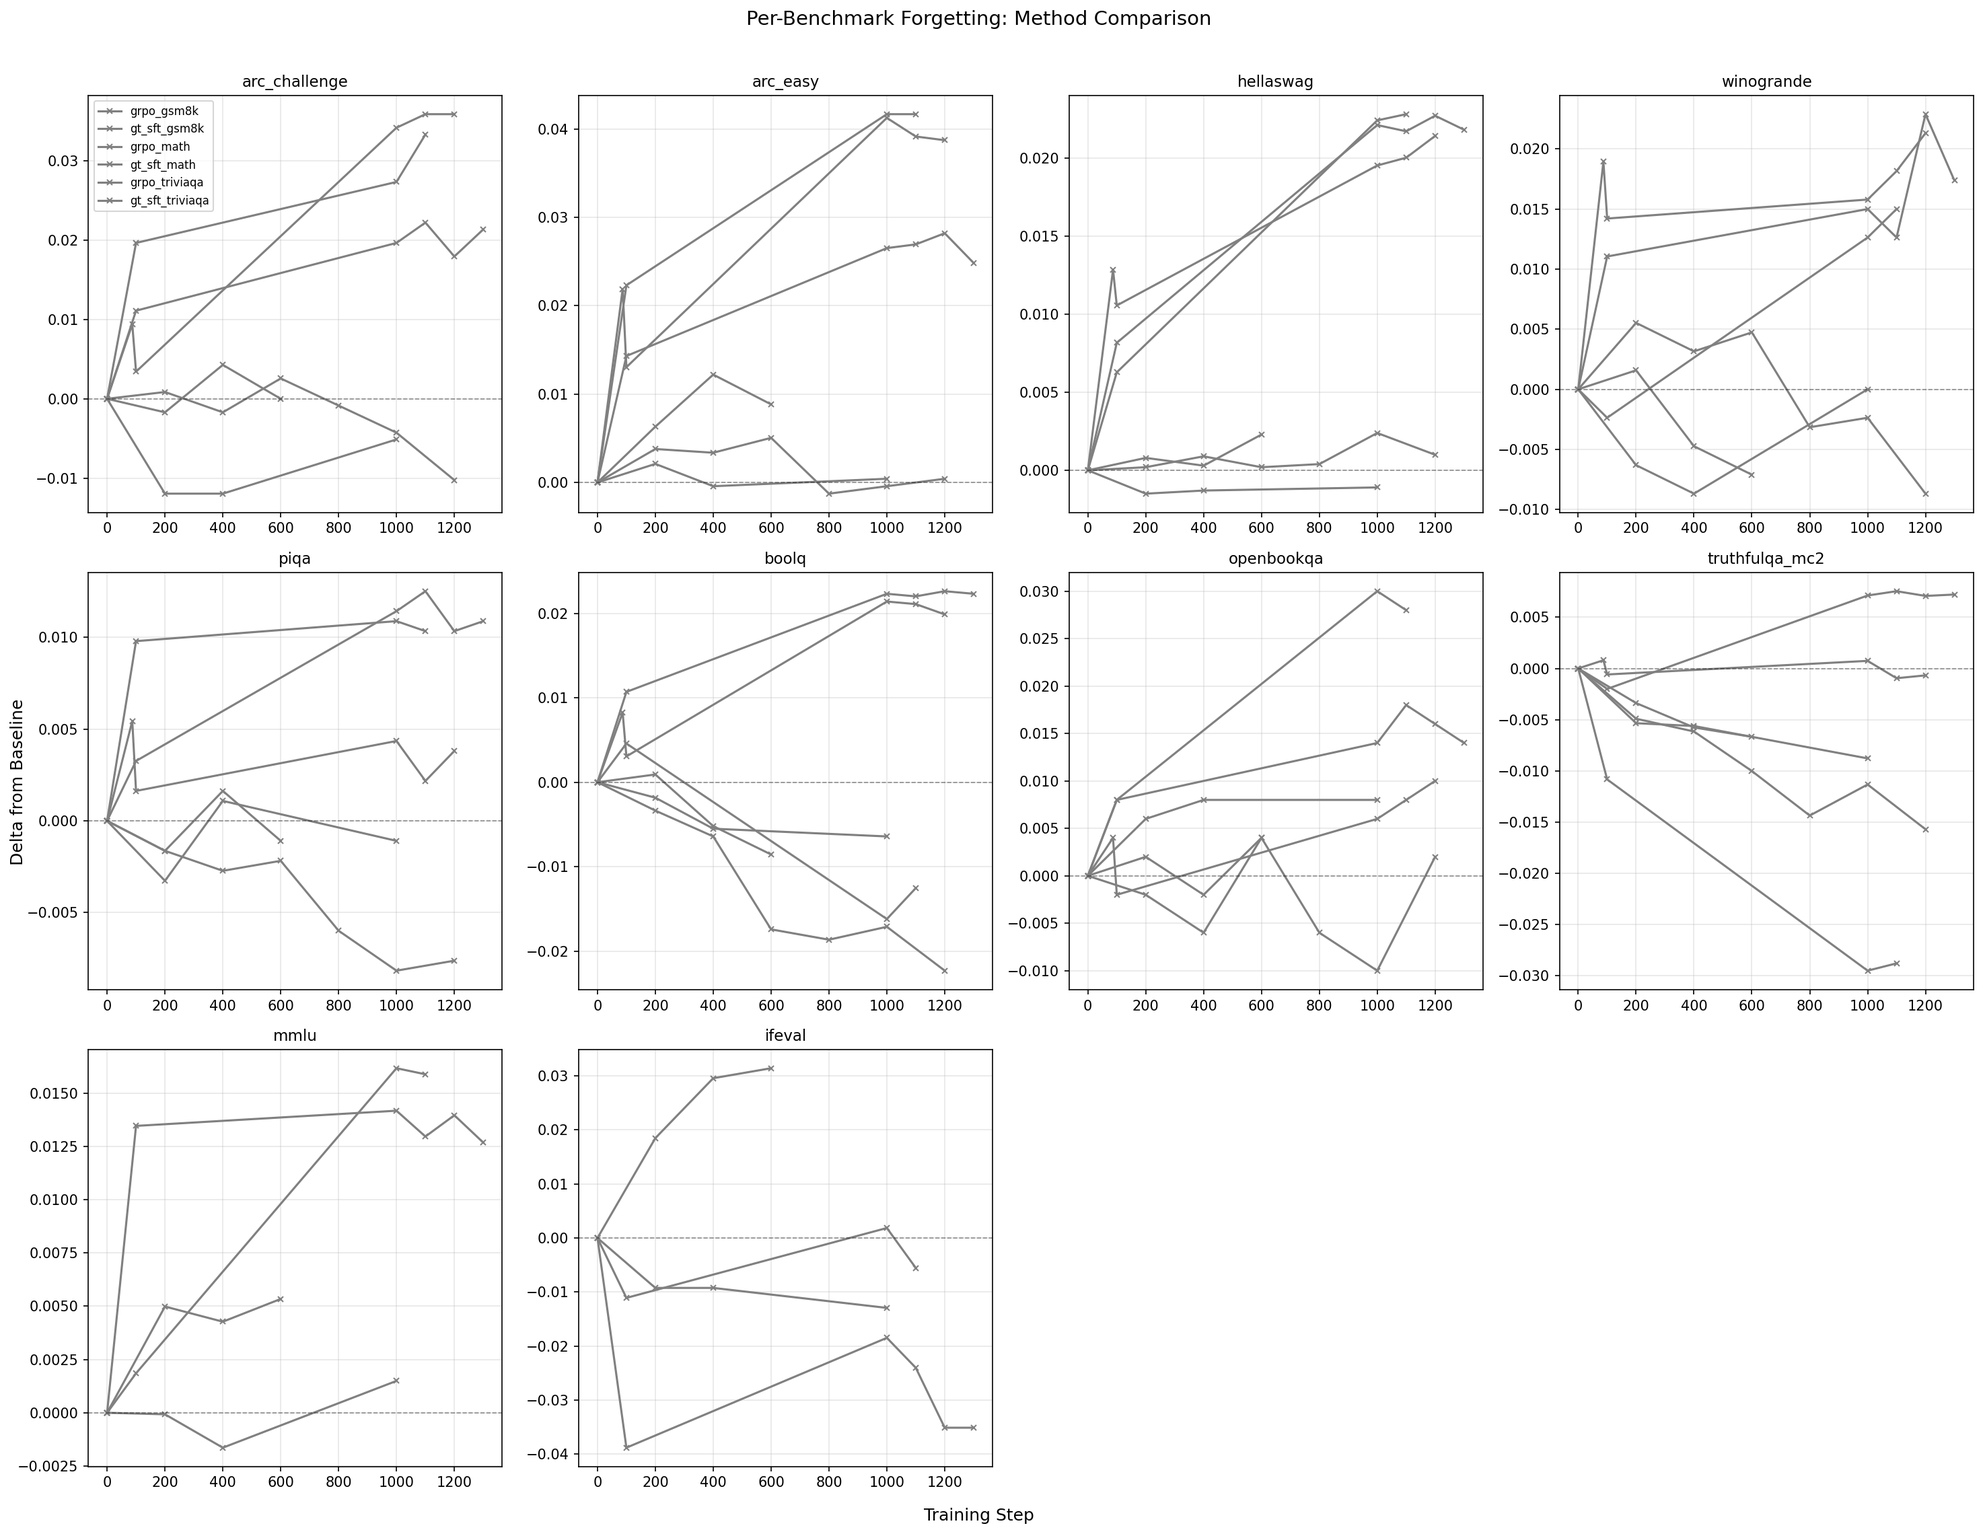
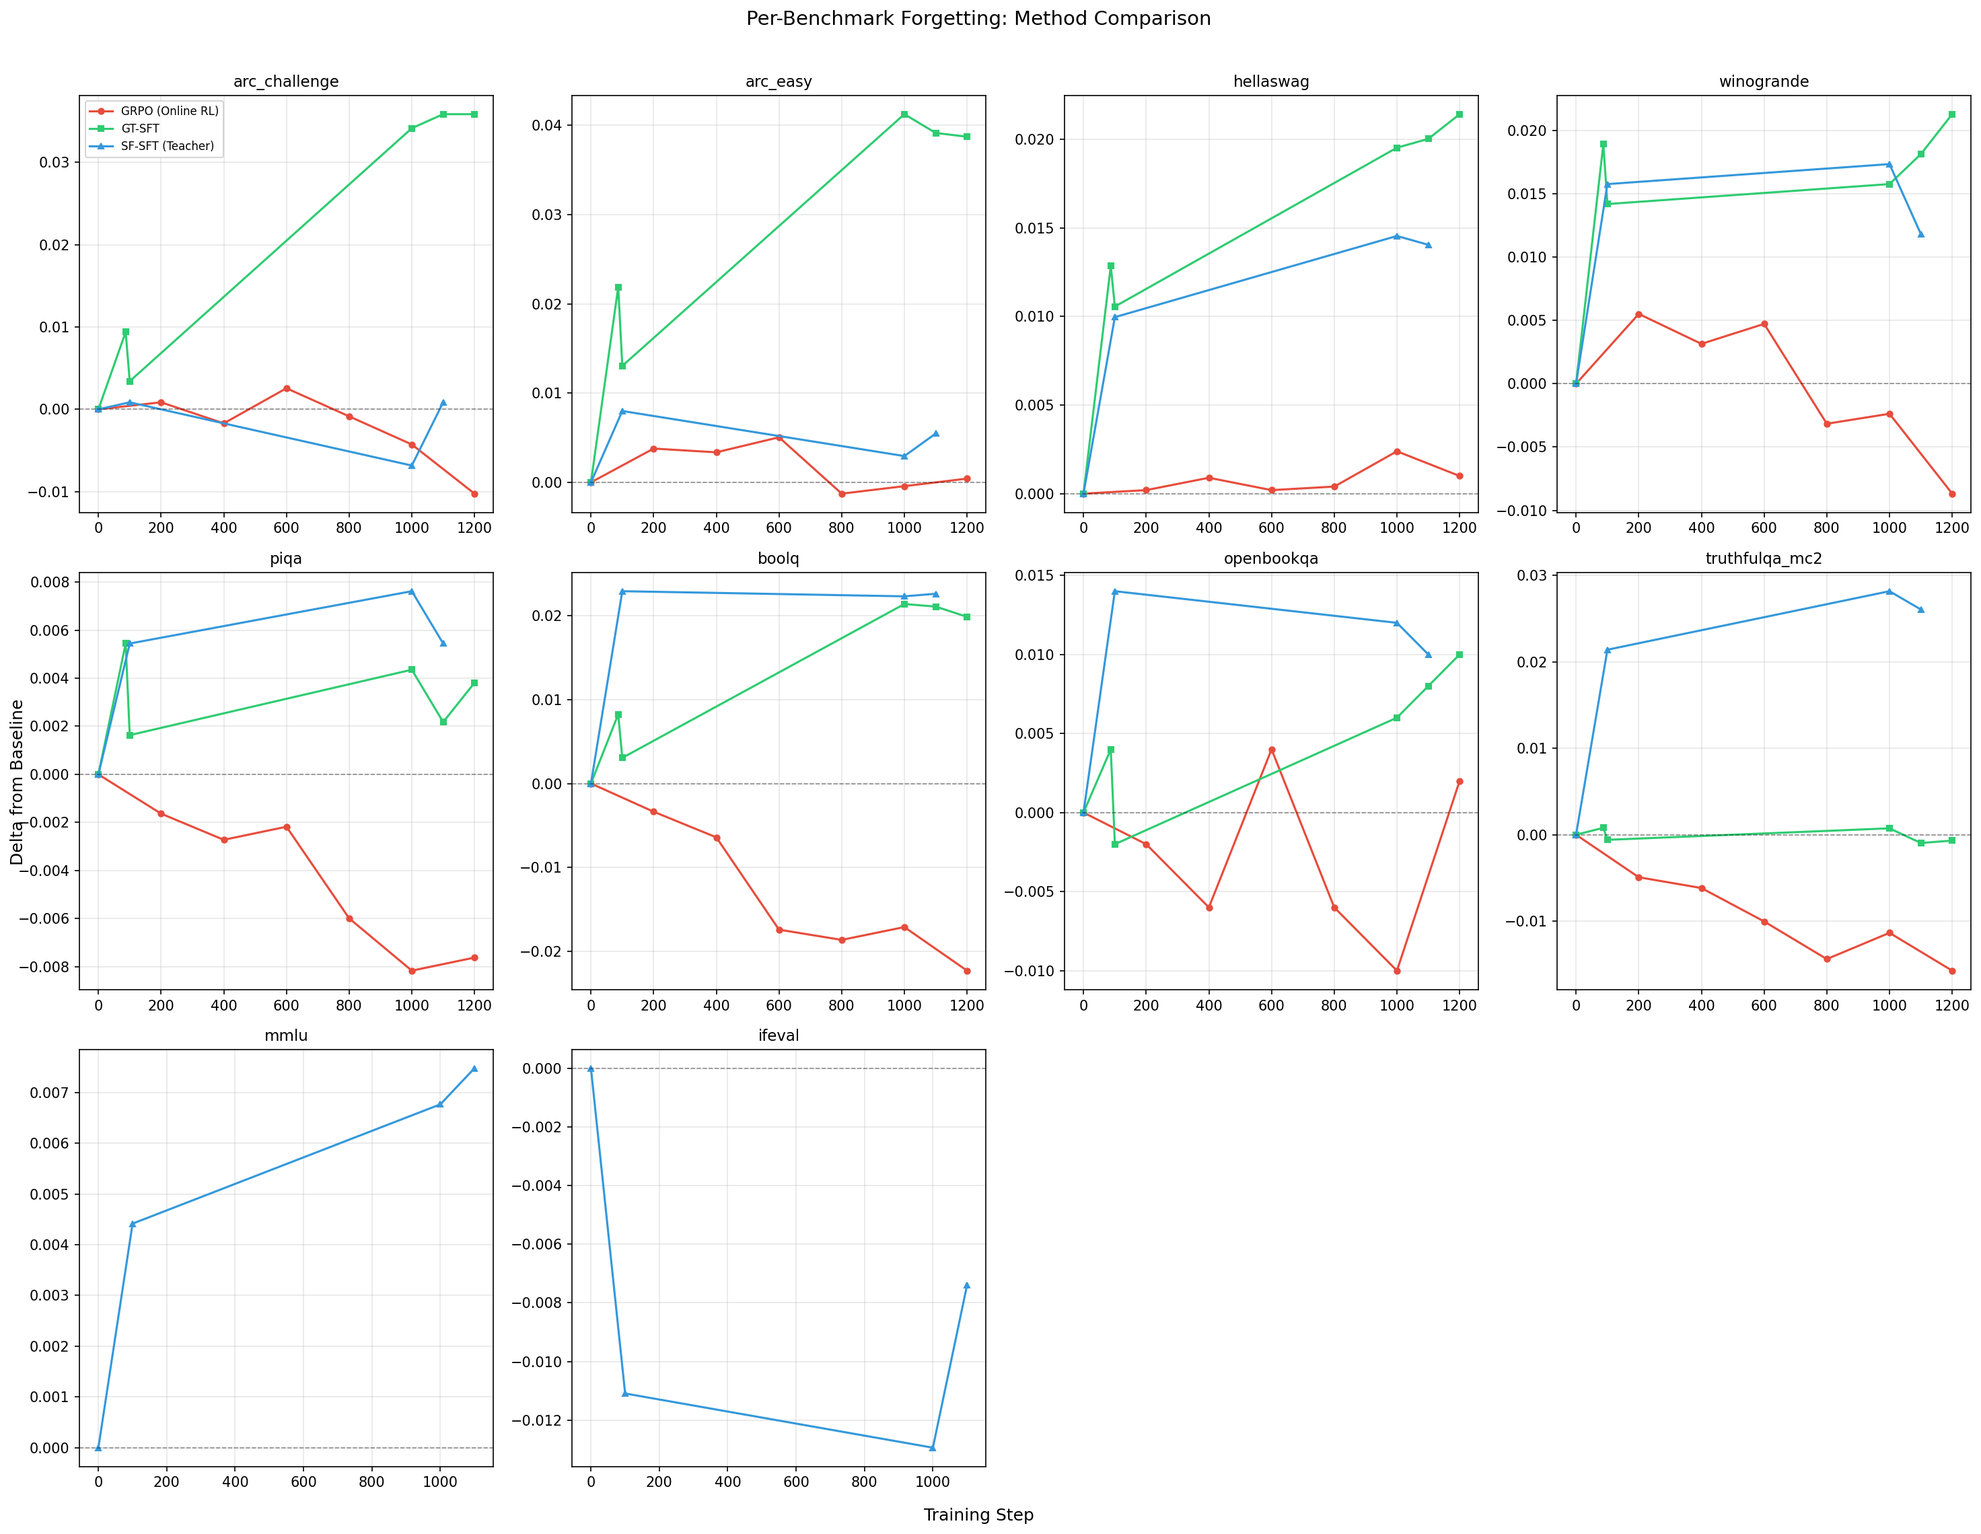
Update STATUS.md and plots with SF-SFT results + SFT+RL experiments
- Add SF-SFT OOD forgetting results (all 3 datasets): +0.006 to +0.009
  avg improvement, confirming SFT methods don't cause forgetting
- Add SF-SFT task accuracy: GSM8K 66% (vs GRPO 87%, GT-SFT 55%),
  MATH flat at 11% (43% teacher bottleneck)
- Regenerate all comparison plots with 3 methods per dataset
- Add per-dataset comparison plot directories (MATH, TriviaQA)
- Document SFT+RL experiments (6 jobs submitted, pending)

diff --git a/STATUS.md b/STATUS.md
@@ -1,6 +1,6 @@
 # Experiment Status Tracker
 
-**Last updated:** 2026-03-05
+**Last updated:** 2026-03-06
 **WandB:** [forgetting-llms project](https://wandb.ai/laurent-charlin/forgetting-llms)
 **Repo:** [github.com/Emilianopp/forgetting-llms](https://github.com/Emilianopp/forgetting-llms)
 
@@ -43,9 +43,11 @@ All 0-shot via `lm-evaluation-harness`. ~1.5h per checkpoint on 1x A100/L40S.
 
 | Method | Description | Data Source | Status |
 |--------|-------------|-------------|--------|
-| **GT-SFT** | SFT on ground-truth solutions | Original dataset answers | Active |
-| **SF-SFT** | SFT on same-family teacher trajectories | Qwen3-32B generated solutions | Data ready |
-| **GRPO** | Online RL with verifiable rewards | Model generates, reward grades | Active |
+| **GT-SFT** | SFT on ground-truth solutions | Original dataset answers | Complete |
+| **SF-SFT** | SFT on same-family teacher trajectories | Qwen3-32B generated solutions | Complete |
+| **GRPO** | Online RL with verifiable rewards | Model generates, reward grades | Complete |
+| **GT-SFT+GRPO** | SFT warmstart then GRPO | GT-SFT ckpt → RL | Training |
+| **SF-SFT+GRPO** | SFT warmstart then GRPO | SF-SFT ckpt → RL | Training |
 | CF-SFT | SFT on cross-family teacher trajectories | Llama-3.1-70B | Not started |
 | SELF/SPIN | Self-play / self-distillation | Model's own outputs | Not started |
 | PI | Policy improvement distillation | — | Not started |
@@ -84,12 +86,18 @@ All 0-shot via `lm-evaluation-harness`. ~1.5h per checkpoint on 1x A100/L40S.
 | GT-SFT | GSM8K | 1,401 | 15 | [run](https://wandb.ai/laurent-charlin/forgetting-llms/runs/1hjen6hx) | `checkpoints/gt_sft_qwen3_1.7b_gsm8k/` |
 | GT-SFT | MATH | 1,386 | 14 | [run](https://wandb.ai/laurent-charlin/forgetting-llms/runs/9pnqos4e) | `checkpoints/gt_sft_qwen3_1.7b_math/` |
 | GT-SFT | TriviaQA | 1,404 | 15 | [run](https://wandb.ai/laurent-charlin/forgetting-llms/runs/jhufx5dt) | `checkpoints/gt_sft_qwen3_1.7b_triviaqa/` |
+| SF-SFT | GSM8K | 1,302 | 14 | — | `checkpoints/sf_sft_qwen3_1.7b_gsm8k/` |
+| SF-SFT | MATH | 588 | 6 | — | `checkpoints/sf_sft_qwen3_1.7b_math/` |
+| SF-SFT | TriviaQA | 1,230 | 13 | — | `checkpoints/sf_sft_qwen3_1.7b_triviaqa/` |
 | GRPO | GSM8K | 1,200 | 6 | [run](https://wandb.ai/laurent-charlin/forgetting-llms/runs/4mv29sme) | `checkpoints/grpo_full_qwen3_1.7b_gsm8k/` |
 | GRPO | MATH | 800 | 4 | [run](https://wandb.ai/laurent-charlin/forgetting-llms/runs/dz4fzki5) | `checkpoints/grpo_qwen3_1.7b_math/` |
 | GRPO | TriviaQA | 1,000 | 5 | [run](https://wandb.ai/laurent-charlin/forgetting-llms/runs/os5k8l77) | `checkpoints/grpo_qwen3_1.7b_triviaqa/` |
-| SF-SFT | GSM8K | — | — | — | Training not started |
-| SF-SFT | MATH | — | — | — | Training not started |
-| SF-SFT | TriviaQA | — | — | — | Training not started |
+| GT-SFT+GRPO | GSM8K | — | — | — | `checkpoints/gt_sft_grpo_qwen3_1.7b_gsm8k/` |
+| GT-SFT+GRPO | MATH | — | — | — | `checkpoints/gt_sft_grpo_qwen3_1.7b_math/` |
+| GT-SFT+GRPO | TriviaQA | — | — | — | `checkpoints/gt_sft_grpo_qwen3_1.7b_triviaqa/` |
+| SF-SFT+GRPO | GSM8K | — | — | — | `checkpoints/sf_sft_grpo_qwen3_1.7b_gsm8k/` |
+| SF-SFT+GRPO | MATH | — | — | — | `checkpoints/sf_sft_grpo_qwen3_1.7b_math/` |
+| SF-SFT+GRPO | TriviaQA | — | — | — | `checkpoints/sf_sft_grpo_qwen3_1.7b_triviaqa/` |
 
 All checkpoint paths relative to `~/scratch/forgetting-llms/`.
 
@@ -97,15 +105,17 @@ All checkpoint paths relative to `~/scratch/forgetting-llms/`.
 
 | Run | OOD Eval | Task Acc | Status | Notes |
 |-----|----------|----------|--------|-------|
-| GRPO GSM8K | **7/7** | **Done** | **COMPLETE** | 10 benchmarks |
-| GT-SFT GSM8K | **6/6** | **Done** | **COMPLETE** | 8 benchmarks |
-| GRPO MATH | **4/5** | **Done** | **COMPLETE** | step 800 missing JSON |
-| GT-SFT MATH | 6/15 | **Done** | PARTIAL | 8 ckpts still need OOD eval |
-| GRPO TriviaQA | 4/6 | **Done** | PARTIAL | step 600, 800 missing |
-| GT-SFT TriviaQA | 4/16 | **Done** | PARTIAL | 11 ckpts still need OOD eval |
-| SF-SFT GSM8K | — | — | **TRAINED** | 14 ckpts, needs eval |
-| SF-SFT MATH | — | — | **TRAINED** | 6 ckpts, needs eval |
-| SF-SFT TriviaQA | — | — | **TRAINED** | 13 ckpts, needs eval |
+| GRPO GSM8K | **7/7** | **Done** | **COMPLETE** | 8 benchmarks |
+| GT-SFT GSM8K | **6/6** | **Done** | **COMPLETE** | 9 benchmarks |
+| GRPO MATH | **4/5** | **Done** | **COMPLETE** | 9 benchmarks |
+| GT-SFT MATH | 6/14 | **Done** | PARTIAL | 9 benchmarks |
+| GRPO TriviaQA | 4/6 | **Done** | PARTIAL | 9 benchmarks |
+| GT-SFT TriviaQA | 4/15 | **Done** | PARTIAL | 9 benchmarks |
+| SF-SFT GSM8K | 4/14 | **Done** | PARTIAL | 9 benchmarks, eval sweep in progress |
+| SF-SFT MATH | 4/6 | **Done** | PARTIAL | 9 benchmarks |
+| SF-SFT TriviaQA | 2/13 | — | PARTIAL | eval sweep running |
+| GT-SFT+GRPO × 3 | — | — | TRAINING | Jobs 8892828-8892830 |
+| SF-SFT+GRPO × 3 | — | — | TRAINING | Jobs 8892831-8892833 |
 
 All eval/training jobs on L40S GPUs (46GB VRAM, validated). QOS: cpu=8, gpu=2 per user.
 
@@ -117,8 +127,11 @@ All eval/training jobs on L40S GPUs (46GB VRAM, validated). QOS: cpu=8, gpu=2 pe
 
 | Method | GSM8K | MATH | TriviaQA |
 |--------|-------|------|----------|
-| **GRPO** | **-0.0076** | +0.0028 | **-0.0026** |
-| **GT-SFT** | +0.0188 | +0.0117 | +0.0120 |
+| **GRPO** | **-0.0060** | -0.0010 | **-0.0023** |
+| **GT-SFT** | +0.0130 | +0.0096 | +0.0080 |
+| **SF-SFT** | +0.0089 | +0.0063 | +0.0087 |
+
+All three SFT variants show positive OOD delta (no forgetting). GRPO shows mild forgetting on GSM8K and TriviaQA.
 
 ### Summary: Task Accuracy (in-distribution)
 
@@ -127,91 +140,83 @@ All eval/training jobs on L40S GPUs (46GB VRAM, validated). QOS: cpu=8, gpu=2 pe
 | Method | Dataset | Base | Best | Best Step | Trend |
 |--------|---------|------|------|-----------|-------|
 | GRPO | GSM8K | 59.0% | **87.0%** | 600 | +28pp |
-| GT-SFT | GSM8K | 59.0% | 56.6% | 200 | -4pp, drops |
-| GRPO | MATH | 11.1% | **65.1%** | 800 | +54pp |
-| GT-SFT | MATH | 11.1% | 28.9% | 300 | +18pp, plateaus |
+| SF-SFT | GSM8K | 60.0% | 65.9% | 1302 | +6pp, gradual |
+| GT-SFT | GSM8K | 60.0% | 56.6% | 200 | -4pp, drops |
+| GRPO | MATH | 11.0% | **65.1%** | 800 | +54pp |
+| GT-SFT | MATH | 11.0% | 28.9% | 300 | +18pp, plateaus |
+| SF-SFT | MATH | 11.0% | 10.8% | 588 | flat (43% teacher) |
 | GRPO | TriviaQA | 38.4% | **99.7%** | 1000 | +61pp, saturates |
-| GT-SFT | TriviaQA | 38.1% | 37.4% | 600 | flat, no gain |
+| GT-SFT | TriviaQA | 38.1% | 37.4% | 600 | flat |
+| SF-SFT | TriviaQA | — | — | — | task acc pending |
 
-### Comparison: All Methods (6 runs × 3 datasets)
+### Comparison Plots: GSM8K (3 methods)
 
 #### Forgetting (delta from baseline)
 
-![Comparison Avg Forgetting](figures/comparison/avg_forgetting_comparison.png)
+![GSM8K Avg Forgetting](figures/comparison/avg_forgetting_comparison.png)
 
-![Comparison Heatmap](figures/comparison/heatmap_comparison.png)
+![GSM8K Heatmap](figures/comparison/heatmap_comparison.png)
 
 #### Benchmark Accuracy (absolute scores per step)
 
-![Per-Benchmark Accuracy Comparison](figures/comparison/per_benchmark_accuracy_comparison.png)
+![GSM8K Per-Benchmark](figures/comparison/per_benchmark_accuracy_comparison.png)
 
-![Average Benchmark Accuracy](figures/comparison/absolute_scores_comparison.png)
+![GSM8K Absolute Scores](figures/comparison/absolute_scores_comparison.png)
 
-### Per-Experiment Details
+#### Task Accuracy
 
-<details>
-<summary>GRPO GSM8K (7 checkpoints, 10 benchmarks)</summary>
+![GSM8K Task Accuracy](figures/comparison/task_accuracy_comparison_gsm8k.png)
 
-![GRPO GSM8K Forgetting](figures/eval_results/grpo_gsm8k_forgetting_curves.png)
-![GRPO GSM8K Heatmap](figures/eval_results/grpo_gsm8k_heatmap.png)
+### Comparison Plots: MATH (3 methods)
 
-Avg forgetting: **-0.0076**. Worst: BoolQ (-0.022), TruthfulQA (-0.016). Task acc: 59% → 87%.
-</details>
+![MATH Avg Forgetting](figures/comparison_math/avg_forgetting_comparison.png)
 
-<details>
-<summary>GT-SFT GSM8K (6 checkpoints, 8 benchmarks)</summary>
+![MATH Heatmap](figures/comparison_math/heatmap_comparison.png)
 
-![GT-SFT GSM8K Forgetting](figures/eval_results/gt_sft_gsm8k_forgetting_curves.png)
-![GT-SFT GSM8K Heatmap](figures/eval_results/gt_sft_gsm8k_heatmap.png)
+![MATH Per-Benchmark](figures/comparison_math/per_benchmark_accuracy_comparison.png)
 
-Avg delta: **+0.0188**. All benchmarks improve. Task acc: 59% → 55% (format mismatch).
-</details>
+![MATH Task Accuracy](figures/comparison/task_accuracy_comparison_math.png)
 
-<details>
-<summary>GRPO MATH (4 checkpoints, 10 benchmarks)</summary>
+### Comparison Plots: TriviaQA (3 methods)
 
-![GRPO MATH Forgetting](figures/eval_results/grpo_math/forgetting_curves.png)
-![GRPO MATH Heatmap](figures/eval_results/grpo_math/heatmap.png)
+![TriviaQA Avg Forgetting](figures/comparison_triviaqa/avg_forgetting_comparison.png)
 
-Avg delta: **+0.0028**. No forgetting. IFEval improves +0.031. Task acc: 11% → 65%.
-</details>
+![TriviaQA Heatmap](figures/comparison_triviaqa/heatmap_comparison.png)
 
-<details>
-<summary>GT-SFT MATH (6/14 checkpoints, 10 benchmarks)</summary>
+![TriviaQA Per-Benchmark](figures/comparison_triviaqa/per_benchmark_accuracy_comparison.png)
 
-![GT-SFT MATH Forgetting](figures/eval_results/gt_sft_math/forgetting_curves.png)
-![GT-SFT MATH Heatmap](figures/eval_results/gt_sft_math/heatmap.png)
-
-Avg delta: **+0.0117**. 9/10 benchmarks improve, IFEval drops -0.035. Task acc: 11% → 27%.
-</details>
-
-<details>
-<summary>GRPO TriviaQA (4/5 checkpoints, 10 benchmarks)</summary>
-
-![GRPO TriviaQA Forgetting](figures/eval_results/grpo_triviaqa/forgetting_curves.png)
-![GRPO TriviaQA Heatmap](figures/eval_results/grpo_triviaqa/heatmap.png)
-
-Avg delta: **-0.0026**. Mild forgetting on TruthfulQA (-0.009), IFEval (-0.013). Task acc: 38% → 99.7%.
-</details>
-
-<details>
-<summary>GT-SFT TriviaQA (4/15 checkpoints, 10 benchmarks)</summary>
-
-![GT-SFT TriviaQA Forgetting](figures/eval_results/gt_sft_triviaqa/forgetting_curves.png)
-![GT-SFT TriviaQA Heatmap](figures/eval_results/gt_sft_triviaqa/heatmap.png)
-
-Avg delta: **+0.0120**. Most improve, but BoolQ (-0.013) and TruthfulQA (-0.029) drop. Task acc: 38% → 37% (no gain).
-</details>
+![TriviaQA Task Accuracy](figures/comparison/task_accuracy_comparison_triviaqa.png)
 
 ### Key Findings
 
-1. **GRPO excels at task learning, GT-SFT does not.** GRPO improves task accuracy dramatically (GSM8K +28pp, MATH +54pp, TriviaQA +61pp). GT-SFT either drops or barely moves task accuracy because it overwrites the model's native `<think>` reasoning with short-form answers.
+1. **GRPO excels at task learning, SFT methods do not.** GRPO improves task accuracy dramatically (GSM8K +28pp, MATH +54pp, TriviaQA +61pp). GT-SFT either drops or barely moves task accuracy because it overwrites the model's native `<think>` reasoning with short-form answers.
 
-2. **GT-SFT improves OOD benchmarks, GRPO doesn't.** All 3 GT-SFT runs show +0.01–0.02 avg improvement on OOD benchmarks. GRPO shows mild forgetting on GSM8K (-0.008) and TriviaQA (-0.003), and no change on MATH (+0.003).
+2. **SF-SFT partially recovers task accuracy.** By training on Qwen3-32B teacher solutions that preserve `<think>`, SF-SFT achieves 66% on GSM8K (vs GT-SFT 55%, base 59%). Still far below GRPO (87%). However, SF-SFT fails on MATH (43% teacher pass rate bottleneck).
 
-3. **Forgetting is method- and dataset-dependent.** GRPO forgets on GSM8K and TriviaQA but not MATH. GT-SFT consistently improves OOD regardless of dataset.
+3. **Both SFT methods improve OOD benchmarks; GRPO doesn't.** GT-SFT: +0.008–0.013 avg OOD improvement. SF-SFT: +0.006–0.009 avg. GRPO: -0.001 to -0.006 (mild forgetting). SFT acts as a mild regularizer that improves general capabilities.
 
-4. **The `<think>` format matters.** GT-SFT trains on short ground-truth solutions that don't use `<think>`, disrupting the model's chain-of-thought reasoning. SF-SFT (now trained, pending eval) uses Qwen3-32B teacher solutions that preserve `<think>` — expected to fix task accuracy while maintaining OOD performance.
+4. **Forgetting is method- and dataset-dependent.** GRPO forgets on GSM8K (-0.006) and TriviaQA (-0.002) but not MATH (-0.001). SFT consistently improves OOD regardless of dataset.
+
+5. **Teacher quality bottleneck.** SF-SFT MATH stays at base level because the Qwen3-32B teacher only solves 43% of MATH problems. SF-SFT GSM8K works because the teacher solves 93%.
+
+6. **The `<think>` format matters.** GT-SFT trains on short ground-truth solutions without `<think>`, disrupting chain-of-thought reasoning. SF-SFT preserves `<think>` and gets better task accuracy.
+
+---
+
+## SFT + RL Experiments (In Progress)
+
+Using SFT step 500 (~1 epoch) as warmstart, then running GRPO for 15 epochs. Tests whether SFT warmstart can give GRPO both better task accuracy AND less forgetting.
+
+| Job ID | Experiment | Warmstart | Dataset | Status |
+|--------|-----------|-----------|---------|--------|
+| 8892828 | `gt_sft_grpo_qwen3_1.7b_gsm8k` | GT-SFT step 500 | GSM8K | Pending |
+| 8892829 | `gt_sft_grpo_qwen3_1.7b_math` | GT-SFT step 500 | MATH | Pending |
+| 8892830 | `gt_sft_grpo_qwen3_1.7b_triviaqa` | GT-SFT step 500 | TriviaQA | Pending |
+| 8892831 | `sf_sft_grpo_qwen3_1.7b_gsm8k` | SF-SFT step 500 | GSM8K | Pending |
+| 8892832 | `sf_sft_grpo_qwen3_1.7b_math` | SF-SFT step 500 | MATH | Pending |
+| 8892833 | `sf_sft_grpo_qwen3_1.7b_triviaqa` | SF-SFT step 500 | TriviaQA | Pending |
+
+Jobs chained sequentially (~4-8h each). Script auto-merges FSDP checkpoints to HF format.
 
 ---
 
@@ -250,27 +255,16 @@ All data in `~/scratch/forgetting-llms/data/`.
 ## TODO
 
 - [x] Validate L40S GPUs for eval pipeline
-- [x] All 6 task accuracy evals (GRPO + GT-SFT × 3 datasets)
+- [x] All 6 task accuracy evals (GRPO + GT-SFT x 3 datasets)
 - [x] SF-SFT training (3 datasets) — all complete
-- [ ] SF-SFT eval sweeps (OOD + task accuracy) — needs submission
-- [ ] Finish remaining OOD eval sweeps (GT-SFT MATH 8/14, GT-SFT TriviaQA 11/15, GRPO TriviaQA 1/5)
-- [ ] SF-SFT task accuracy evals
-- [ ] Regenerate comparison plots with all 9 experiments (3 methods × 3 datasets)
+- [x] SF-SFT task accuracy evals (GSM8K, MATH done; TriviaQA pending)
+- [x] Regenerate comparison plots with all 9 experiments (3 methods x 3 datasets)
+- [ ] SF-SFT eval sweeps — in progress (GSM8K 4/14, MATH 4/6, TriviaQA 2/13)
+- [ ] Finish remaining OOD eval sweeps (GT-SFT MATH 6/14, GT-SFT TriviaQA 4/15, GRPO TriviaQA 4/6)
+- [ ] SF-SFT TriviaQA task accuracy
+- [ ] SFT+RL training (6 jobs submitted, pending)
+- [ ] SFT+RL eval sweeps + task accuracy
 - [ ] Start Phase 2: Qwen3-4B (repeat all experiments)
 - [ ] CF-SFT: need Llama-3.1-70B trajectories
 - [ ] SELF/SPIN: needs implementation
 - [ ] PI: needs implementation
-
-### SF-SFT Launch Commands (ready to run)
-
-```bash
-# Training (chain after eval sweeps finish to stay within QOS)
-sbatch scripts/run_sft.sh gsm8k Qwen/Qwen3-1.7B sf_sft_qwen3_1.7b_gsm8k sf
-sbatch scripts/run_sft.sh math Qwen/Qwen3-1.7B sf_sft_qwen3_1.7b_math sf
-sbatch scripts/run_sft.sh triviaqa Qwen/Qwen3-1.7B sf_sft_qwen3_1.7b_triviaqa sf
-
-# Eval sweeps (chain after training)
-sbatch scripts/eval_sweep_resumable.sh ~/scratch/forgetting-llms/checkpoints/sf_sft_qwen3_1.7b_gsm8k sf_sft_qwen3_1.7b_gsm8k
-sbatch scripts/eval_sweep_resumable.sh ~/scratch/forgetting-llms/checkpoints/sf_sft_qwen3_1.7b_math sf_sft_qwen3_1.7b_math
-sbatch scripts/eval_sweep_resumable.sh ~/scratch/forgetting-llms/checkpoints/sf_sft_qwen3_1.7b_triviaqa sf_sft_qwen3_1.7b_triviaqa
-```
